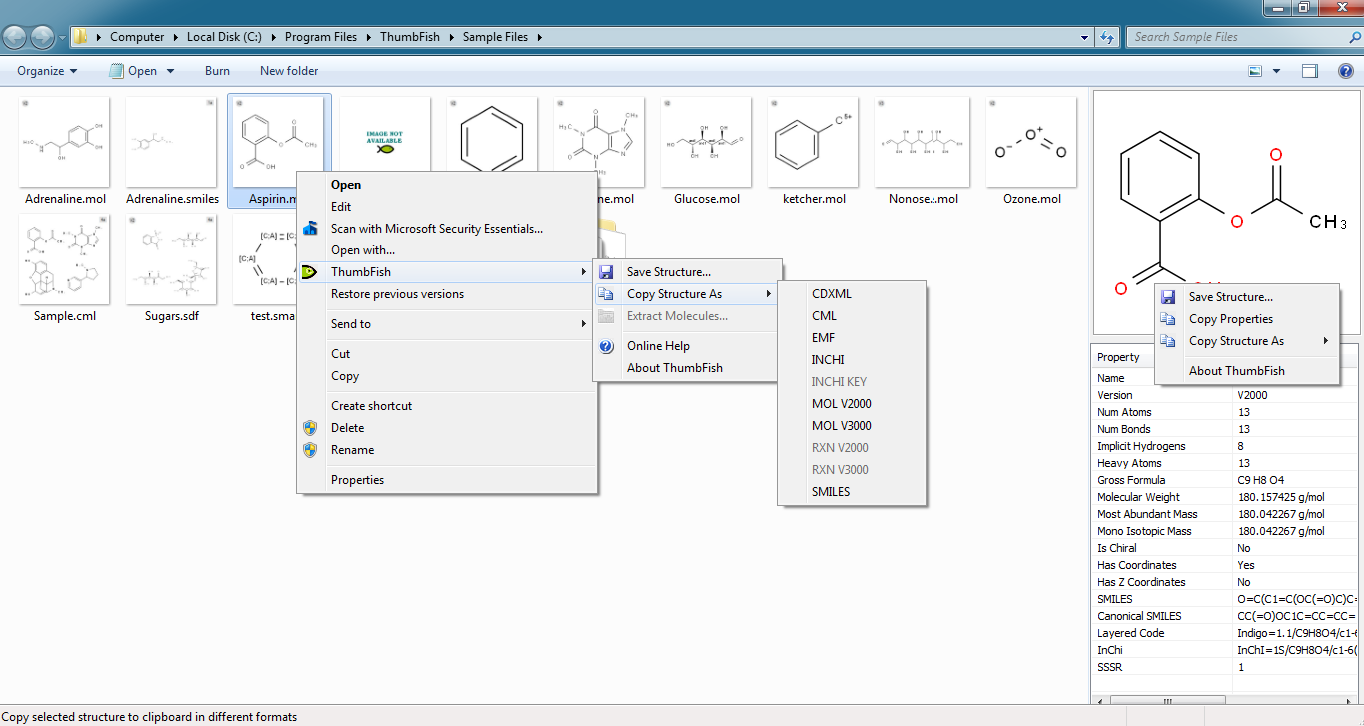
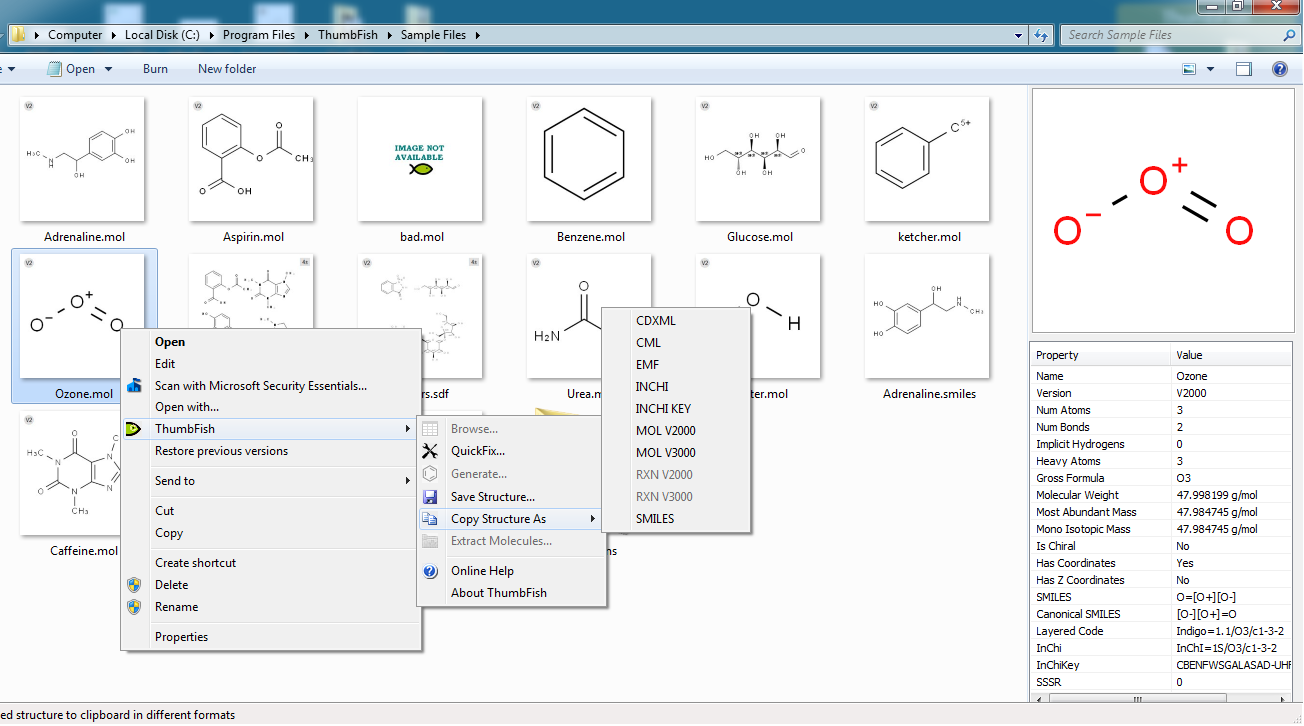
Updated screenshots for new version. New features page added

diff --git a/features.html b/features.html
@@ -1,0 +1,132 @@
+<!DOCTYPE html>
+<html>
+<head>
+<meta charset='utf-8'>
+<meta http-equiv="X-UA-Compatible" content="chrome=1">
+<meta name="viewport" content="width=device-width, initial-scale=1, maximum-scale=1">
+<meta name="description" content="ThumbFish is a Shell Extension Handler for Windows OS that generates thumbnails,
+provide molecule preview (with properties), molecule search and other useful features all integrated inside Windows Explorer.">
+<link href='https://fonts.googleapis.com/css?family=Architects+Daughter' rel='stylesheet' type='text/css'>
+<link rel="stylesheet" type="text/css" href="stylesheets/stylesheet.css" media="screen" />
+<link rel="stylesheet" type="text/css" href="stylesheets/pygment_trac.css" media="screen" />
+<link rel="stylesheet" type="text/css" href="stylesheets/print.css" media="print" />
+
+<script type="text/javascript" src="http://ajax.googleapis.com/ajax/libs/jquery/1.7/jquery.min.js"></script>
+<link rel="stylesheet" href="javascripts/fancybox/jquery.fancybox.css" type="text/css" media="screen" />
+<script type="text/javascript" src="javascripts/fancybox/jquery.fancybox.pack.js"></script>
+
+<!--[if lt IE 9]>
+<script src="//html5shiv.googlecode.com/svn/trunk/html5.js"></script>
+<![endif]-->
+
+<title>ThumbFish - Generate chemical structure thumbnails, preview and search molecules inside Windows Explorer (mol, rxn, sdf, rdf, cml)</title>
+<script>
+(function (i, s, o, g, r, a, m) { i['GoogleAnalyticsObject'] = r; i[r] = i[r] || function () { (i[r].q = i[r].q || []).push(arguments) }, i[r].l = 1 * new Date(); a = s.createElement(o), m = s.getElementsByTagName(o)[0]; a.async = 1; a.src = g; m.parentNode.insertBefore(a, m) })(window, document, 'script', '//www.google-analytics.com/analytics.js', 'ga'); ga('create', 'UA-51329802-1', 'abhimanyusirohi.github.io'); ga('send', 'pageview');
+
+$(document).ready(function () {
+$('.fancybox').fancybox();
+});
+</script>
+
+</head>
+
+<body>
+<header>
+<div class="inner">
+<h1>ThumbFish</h1>
+<a href="https://github.com/abhimanyusirohi/ThumbFish" class="button"><small>View project on</small>GitHub</a>
+</div>
+</header>
+
+<div id="content-wrapper">
+<div class="inner clearfix">
+
+<aside id="sidebar">
+<br />
+<ul style="font-size: medium; list-style-type: circle">
+<li><a href="index.html">Home</a></li>
+<li><a href="#features">Features</a>
+<ul style="list-style-type: circle; margin-bottom: 0px">
+    <li><a href="#browse-feature">Browse</a></li>
+    <li><a href="#extract-feature">Extract</a></li>
+    <li><a href="#generate-feature">Generate</a></li>
+    <li><a href="#quickfix-feature">Quick Fix</a></li>
+</ul>
+</li>
+</ul>
+
+<table style="border: none">
+<tr>
+<td style="border: none;">
+<img src="images/blogspot.png" />
+</td>
+<td style="border: none; text-align: left; vertical-align: middle; font-size: medium">
+<a href="https://thumbfish.blogspot.com" target="_blank">Product Updates Blog</a>
+</td>
+</tr>
+</table>
+<hr />
+
+<a href="https://github.com/abhimanyusirohi/ThumbFish/releases/download/neptune-beta3/ThumbFishSetupx64.msi" class="button">
+<small>Release ONE.DOT.ZERO</small>64-bit
+</a>
+
+<a href="https://github.com/abhimanyusirohi/ThumbFish/releases/download/neptune-beta3/ThumbFishSetupx32.msi" class="button">
+<small>Release ONE.DOT.ZERO</small>32-bit
+</a>
+
+<p>
+Please enter any bugs directly in GitHub <a href="https://github.com/abhimanyusirohi/ThumbFish/issues/new" target="_blank">here</a>.<br />
+Send your suggestions and feedback to <a href="mailto:abhimanyusirohi@gmail.com">abhimanyusirohi@gmail.com</a>
+</p>
+</aside>
+
+<section id="main-content">
+    <div style="float: right">
+    <img src="images/logo.png" width="104" height="56" alt="ThumbFish" title="ThumbFish" style="padding: 0px; border:none" />
+    </div>
+
+    <a id="features"><h1>Features</h1></a>
+    <br/>
+    <a id="browse-feature"><h2>Browse Molecules</h2></a>
+    <p>
+        Browse feature is available in the ThumbFish context-menu when the user right-click on a multi-molecule file such as SDF in Windows Explorer. It displays
+        a dialog and loads the file in a multi-column list containing molecule in FIRST column and molecule record properties in other columns. The nice thing about 
+        the browser is that it loads the molecule in background and allows thousands of molecules to be loaded without blocking the user interface. 
+        <u>Note that this feature is only enabled when a single multi-molecule file (SDF, RDF, CML, SMILES) is selected.</u>
+    </p>
+    <img src="images/BrowseDlg.png" alt="Browse Molecules" title="Browse Molecules" />
+    <br />
+    <br />
+    <a id="extract-feature"><h2>Extract Molecules</h2></a>
+    <p>Extract feature is available in the ThumbFish context-menu when the user right-click on a supported chemical file in Windows Explorer. This feature can be used to 
+        extract molecules from a multi-molecule file. The extracted molecules can be converted to different formats on the fly and saved as separate files. For example a number
+        of MOL files can be extracted from a SDF file. <u>Note that this feature is only enabled when a single multi-molecule file (SDF, RDF, CML, SMILES) is selected.</u>
+    </p>
+    <img src="images/extract.png" alt="Extract Molecules" title="Extract Molecules"/>
+    <p>The extract dialog follows the "Statement UI" format which is <a href="http://thumbfish.blogspot.in/2014/11/statement-user-interface-sui.html" target="_blank">described on the product blog</a>. Basically, Statement UI describes the operation using statements and 
+        parts of it are configurable. The above dialog has five configurable parts. You can click on any of the links and change the options. The configurable links can
+        display a menu, open a dialog or expand the extract dialog to display an area for additional input such as shown in the dialog above.
+    </p>
+    <br />
+    <a id="generate-feature"><h2>Generate Molecule</h2></a>
+    <p>
+        Generate feature is available in the ThumbFish context-menu when the user <u>right-click on an empty area inside a folder</u>. This feature can be used to create a new 
+        molecule from SMILES or InChi string. It displays the generated molecule in the display area as the user enters the string. The generated molecule can then be saved 
+        to any of the supported formats.
+    </p>
+    <img src="images/GenerateDlg.png" alt="Generate Molecule" title="Generate Molecule" />
+
+    <br />
+    <a id="quickfix-feature"><h2>QuickFix</h2></a>
+    <p>
+        QuickFix feature is available in the ThumbFish context-menu when the user right-click on a supported chemical file in Windows Explorer. This feature can be used to apply
+        different options such as Aromatize/De-aromatize, Fold/Unfold Hydrogens, Cleanup, Normalize and Validate. Applied changes can be saved to the original file.
+    </p>
+    <img src="images/QuickFixDlg.png" alt="QuickFix" title="QuickFix" />
+
+</section>
+</div>
+</div>
+</body>
+</html>

diff --git a/index.html b/index.html
@@ -1,4 +1,4 @@
-<!DOCTYPE html>
+<!DOCTYPE html>
 <html>
 <head>
 <meta charset='utf-8'>
@@ -52,11 +52,7 @@ $('.fancybox').fancybox();
 <li><a href="#shandler">Search Handler</a></li>
 <li><a href="#chandler">Context-Menu Handler</a></li>
 </ul>
-<li><a href="#features">Features</a>
-<ul style="list-style-type: circle; margin-bottom: 0px">
-    <li><a href="#extract-feature">Extract Molecules</a></li>
-</ul>
-</li>
+<li><a href="features.html">Features</a></li>
 <li><a href="#known-limitations">Known Limitations</a></li>
 </ul>
 
@@ -72,13 +68,13 @@ $('.fancybox').fancybox();
 </table>
 <hr />
 
-<a href="https://github.com/abhimanyusirohi/ThumbFish/releases/download/neptune-beta3/ThumbFishSetupx64.msi" class="button">
-<small>ThumbFish Beta.3</small>64-bit
-</a>
+    <a href="https://github.com/abhimanyusirohi/ThumbFish/releases/download/release-1.0/ThumbFishSetupx64.msi" class="button">
+        <small>Release ONE.DOT.ZERO</small>64-bit
+    </a>
 
-<a href="https://github.com/abhimanyusirohi/ThumbFish/releases/download/neptune-beta3/ThumbFishSetupx32.msi" class="button">
-<small>ThumbFish Beta.3</small>32-bit
-</a>
+    <a href="https://github.com/abhimanyusirohi/ThumbFish/releases/download/release-1.0/ThumbFishSetupx32.msi" class="button">
+        <small>Release ONE.DOT.ZERO</small>32-bit
+    </a>
 
 <p>
 Please enter any bugs directly in GitHub <a href="https://github.com/abhimanyusirohi/ThumbFish/issues/new" target="_blank">here</a>.<br />
@@ -149,7 +145,7 @@ ThumbFish contains the following Shell Extension Handlers for Windows OS:
 <li><b>Search Handler</b>: Searches for a structure based on its properties</li>
 <li><b>Context-Menu Handler</b>: Provides additional useful options on supported structure files</li>
 </ul>
-ThumbFish is currently ONLY supported on Windows Vista and above:
+ThumbFish is ONLY supported on Windows Vista and above:
 <table style="background-color: lightblue"><tr><td width="200px">Windows Vista SP2</td><td width="200px">Windows 7 SP1</td><td width="200px">Windows 8.1</td></tr></table>
     <br />
 <a id="gettingstarted">
@@ -287,24 +283,11 @@ ThumbFish context-menu is integrated into the Window Explorer context-menu and p
     <i>Export Molecules</i> command works on multi-molecule files such as SDF and can be used to extract molecules in different formats as separate files.<br />
 <br />
 <img src="images/contextmenu.png" alt="Context Menu" title="Context Menu"/>
-<a id="features"><h1>Features</h1></a>
-<a id="extract-feature"><h2>Extract Molecules</h2></a>
-    <p>Extract Molecule feature is available in the ThumbFish Context-Menu when you right-click on a supported chemical file in Windows Explorer. This feature can be used to 
-        extract molecules from a multi-molecule file. The extracted molecules can be converted to different formats on the fly and saved as separate files. For example a number
-        of MOL files can be extracted from a SDF file. This feature is only enabled when a single multi-molecule file (SDF, RDF, CML, SMILES) is selected.
-    </p>
-<img src="images/extract.png" alt="Extract Molecules" title="Extract Molecules"/>
-    <p>The extract dialog follows the "Statement UI" format which is <a href="http://thumbfish.blogspot.in/2014/11/statement-user-interface-sui.html" target="_blank">described on the product blog</a>. Basically, Statement UI describes the operation using statements and 
-        parts of it are configurable. The above dialog has five configurable parts. You can click on any of the links and change the options. The configurable links can
-        display a menu, open a dialog or expand the extract dialog to display an area for additional input such as shown in the dialog above.
-    </p>
 <a id="known-limitations"><h1>Known Limitations</h1></a>
 <ol>
 <li>Copying structure as Enhanced Metafile (EMF) Picture does not display atom labels.</li>
 <li>When a structure is saved using the "Save Structure" command in Preview Handler then it can only be saved in user's AppData\LocalLow directory.
 This is because the Preview Handler runs in a low integrity mode under Windows and does not have access to other locations.</li>
-<li>The Copy Structure As >> InChi Key command is NOT operational. The command has been intentionally disabled due to
-<a href="https://github.com/ggasoftware/indigo/issues/11">an issue associated with the Indigo provider.</a></li>
 <li>The SaveAs >> Connection Table (.ct) command saves a <u>prettified</u> connection table and not the standard MDLCT one. The standard one saves a line length
 character and then the actual line so it may contain NULL characters. Prettified one is human readable as it contains simple data lines ending with a CRLF.</li>
 <li>Saving Reaction file as CDXML or CML is not supported due to issues in the provider.</li>
